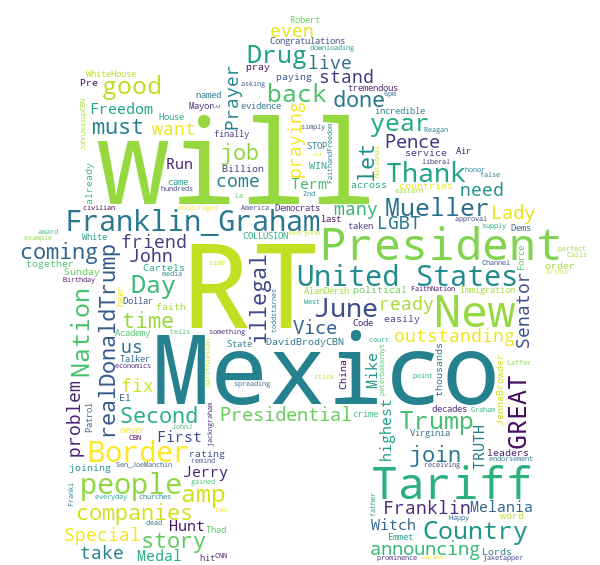
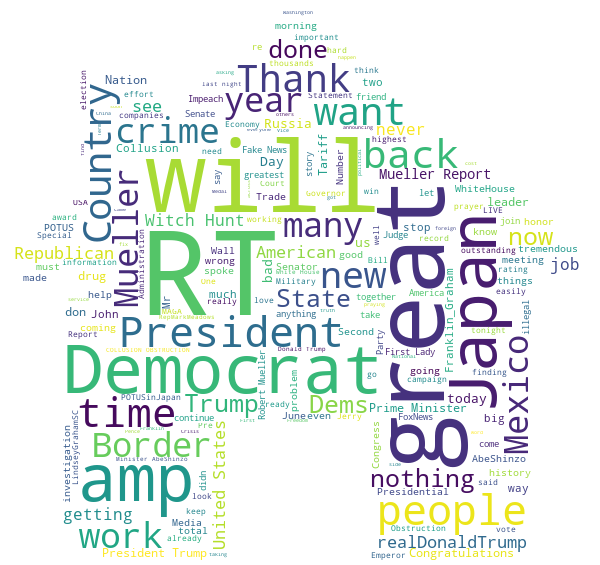
add meaningless word filter

diff --git a/source/page.py b/source/page.py
@@ -22,17 +22,26 @@ except ImportError:
 from PIL import Image
 import urllib
 
+meaningless_words = [
+                    "il","la","az","ez","un","una",
+                    "uno","gli","le","the","with","RT",
+                    "amp","what","who","which","that",
+                    "che","chi","con","I","del","di","della",
+                    "ma","da"]
+
 auth = tweepy.OAuthHandler(CONSUMER_KEY, CONSUMER_SECRET)
 auth.set_access_token(ACCESS_TOKEN, ACCESS_TOKEN_SECRET)
 api = tweepy.API(auth)
 tweet_lst = []
 
-def user_tweet(twitter_handle):
-    tweets = api.user_timeline(screen_name=twitter_handle, count=50, tweet_mode="extended")
+def user_tweet(twitter_handle,tweet_count):
+    tweets = api.user_timeline(screen_name=twitter_handle, count=tweet_count, tweet_mode="extended")
     clean = []
     for tweet in tweets:
         for word in tweet.full_text.split():
             if 'https:' in word or 'http:' in word or 'www' in word or '.com' in word:
+                continue
+            elif word[0]== "@":
                 continue
             else:
                 word_cloud_lst.append(word)
@@ -41,10 +50,28 @@ def user_tweet(twitter_handle):
         clean = []
 
 def generate_wordcloud(words, mask,handle):
-    word_cloud = WordCloud(width = 512, height = 512, background_color='white', stopwords=STOPWORDS, mask=mask).generate(words)
+    stopwords = set(STOPWORDS)
+    for word in meaningless_words:
+        stopwords.add(word)
+    word_cloud = WordCloud(width = 512, height = 512, background_color='white', stopwords=stopwords, mask=mask).generate(words)
     path = 'static/images/'+handle+'.png'
     word_cloud.to_file(path)
     word_cloud_lst = []
+
+def getMask(mask_link):
+    default = "http://www.clker.com/cliparts/O/i/x/Y/q/P/yellow-house-hi.png"
+    try:
+        response = requests.get(mask_link,stream = True)
+    except requests.exceptions.InvalidURL:
+        response = requests.get(default,stream = True)
+        mask = np.array(Image.open(response.raw))
+        return mask
+    if response.status_code == 200:
+        mask = np.array(Image.open(response.raw))
+    else: #elif response.status_code == 404:
+        response = requests.get(default,stream = True)
+        mask = np.array(Image.open(response.raw))
+    return mask
 
 app = Flask(__name__)
 
@@ -60,9 +87,21 @@ def my_form_post():
     if handle == "" or handle == " ":
         return "invalid input"
     else:
-        user_tweet(handle)
+        tweet_count = request.form['tweet_count']
+        try:
+            tweet_count = int(tweet_count)
+            if tweet_count <= 0:
+                return "number of tweets to be analysed must be bigger than zero"
+            elif tweet_count > 200:
+                return "this script can not handle more than 200 tweets to be analysed"
+        except ValueError:
+            return "invalid number entered"
+        mask_link = request.form['template']
+        if mask_link == " " or mask_link == "":
+            mask_link = "http://"
+        mask = getMask(mask_link)
+        user_tweet(handle,tweet_count)
         words = " ".join(word_cloud_lst)
-        mask = np.array(Image.open(requests.get('http://www.clker.com/cliparts/O/i/x/Y/q/P/yellow-house-hi.png', stream=True).raw))
         generate_wordcloud(words, mask,handle)
         filename = "images/{}.png".format(handle)
         return render_template('body.html', filename=filename)

diff --git a/source/tweet_collector.py b/source/tweet_collector.py
@@ -22,6 +22,13 @@ except ImportError:
 from PIL import Image
 import urllib
 
+meaningless_words = [
+                    "il","la","az","ez","un","una",
+                    "uno","gli","le","the","with","RT",
+                    "amp","what","who","which","that",
+                    "che","chi","con","I","del","di","della",
+                    "ma","da"]
+
 auth = tweepy.OAuthHandler(CONSUMER_KEY, CONSUMER_SECRET)
 auth.set_access_token(ACCESS_TOKEN, ACCESS_TOKEN_SECRET)
 api = tweepy.API(auth)
@@ -40,7 +47,10 @@ def user_tweet(twitter_handle):
         clean = []
 
 def generate_wordcloud(words, mask):
-    word_cloud = WordCloud(width = 512, height = 512, background_color='white', stopwords=STOPWORDS, mask=mask).generate(words)
+    stopwords = set(STOPWORDS)
+    for word in meaningless_words:
+        stopwords.add(word)
+    word_cloud = WordCloud(width = 512, height = 512, background_color='white', stopwords=stopwords, mask=mask).generate(words)
     path = 'static/images/'+handle+'.png'
     word_cloud.to_file(path)
     word_cloud_lst = []
